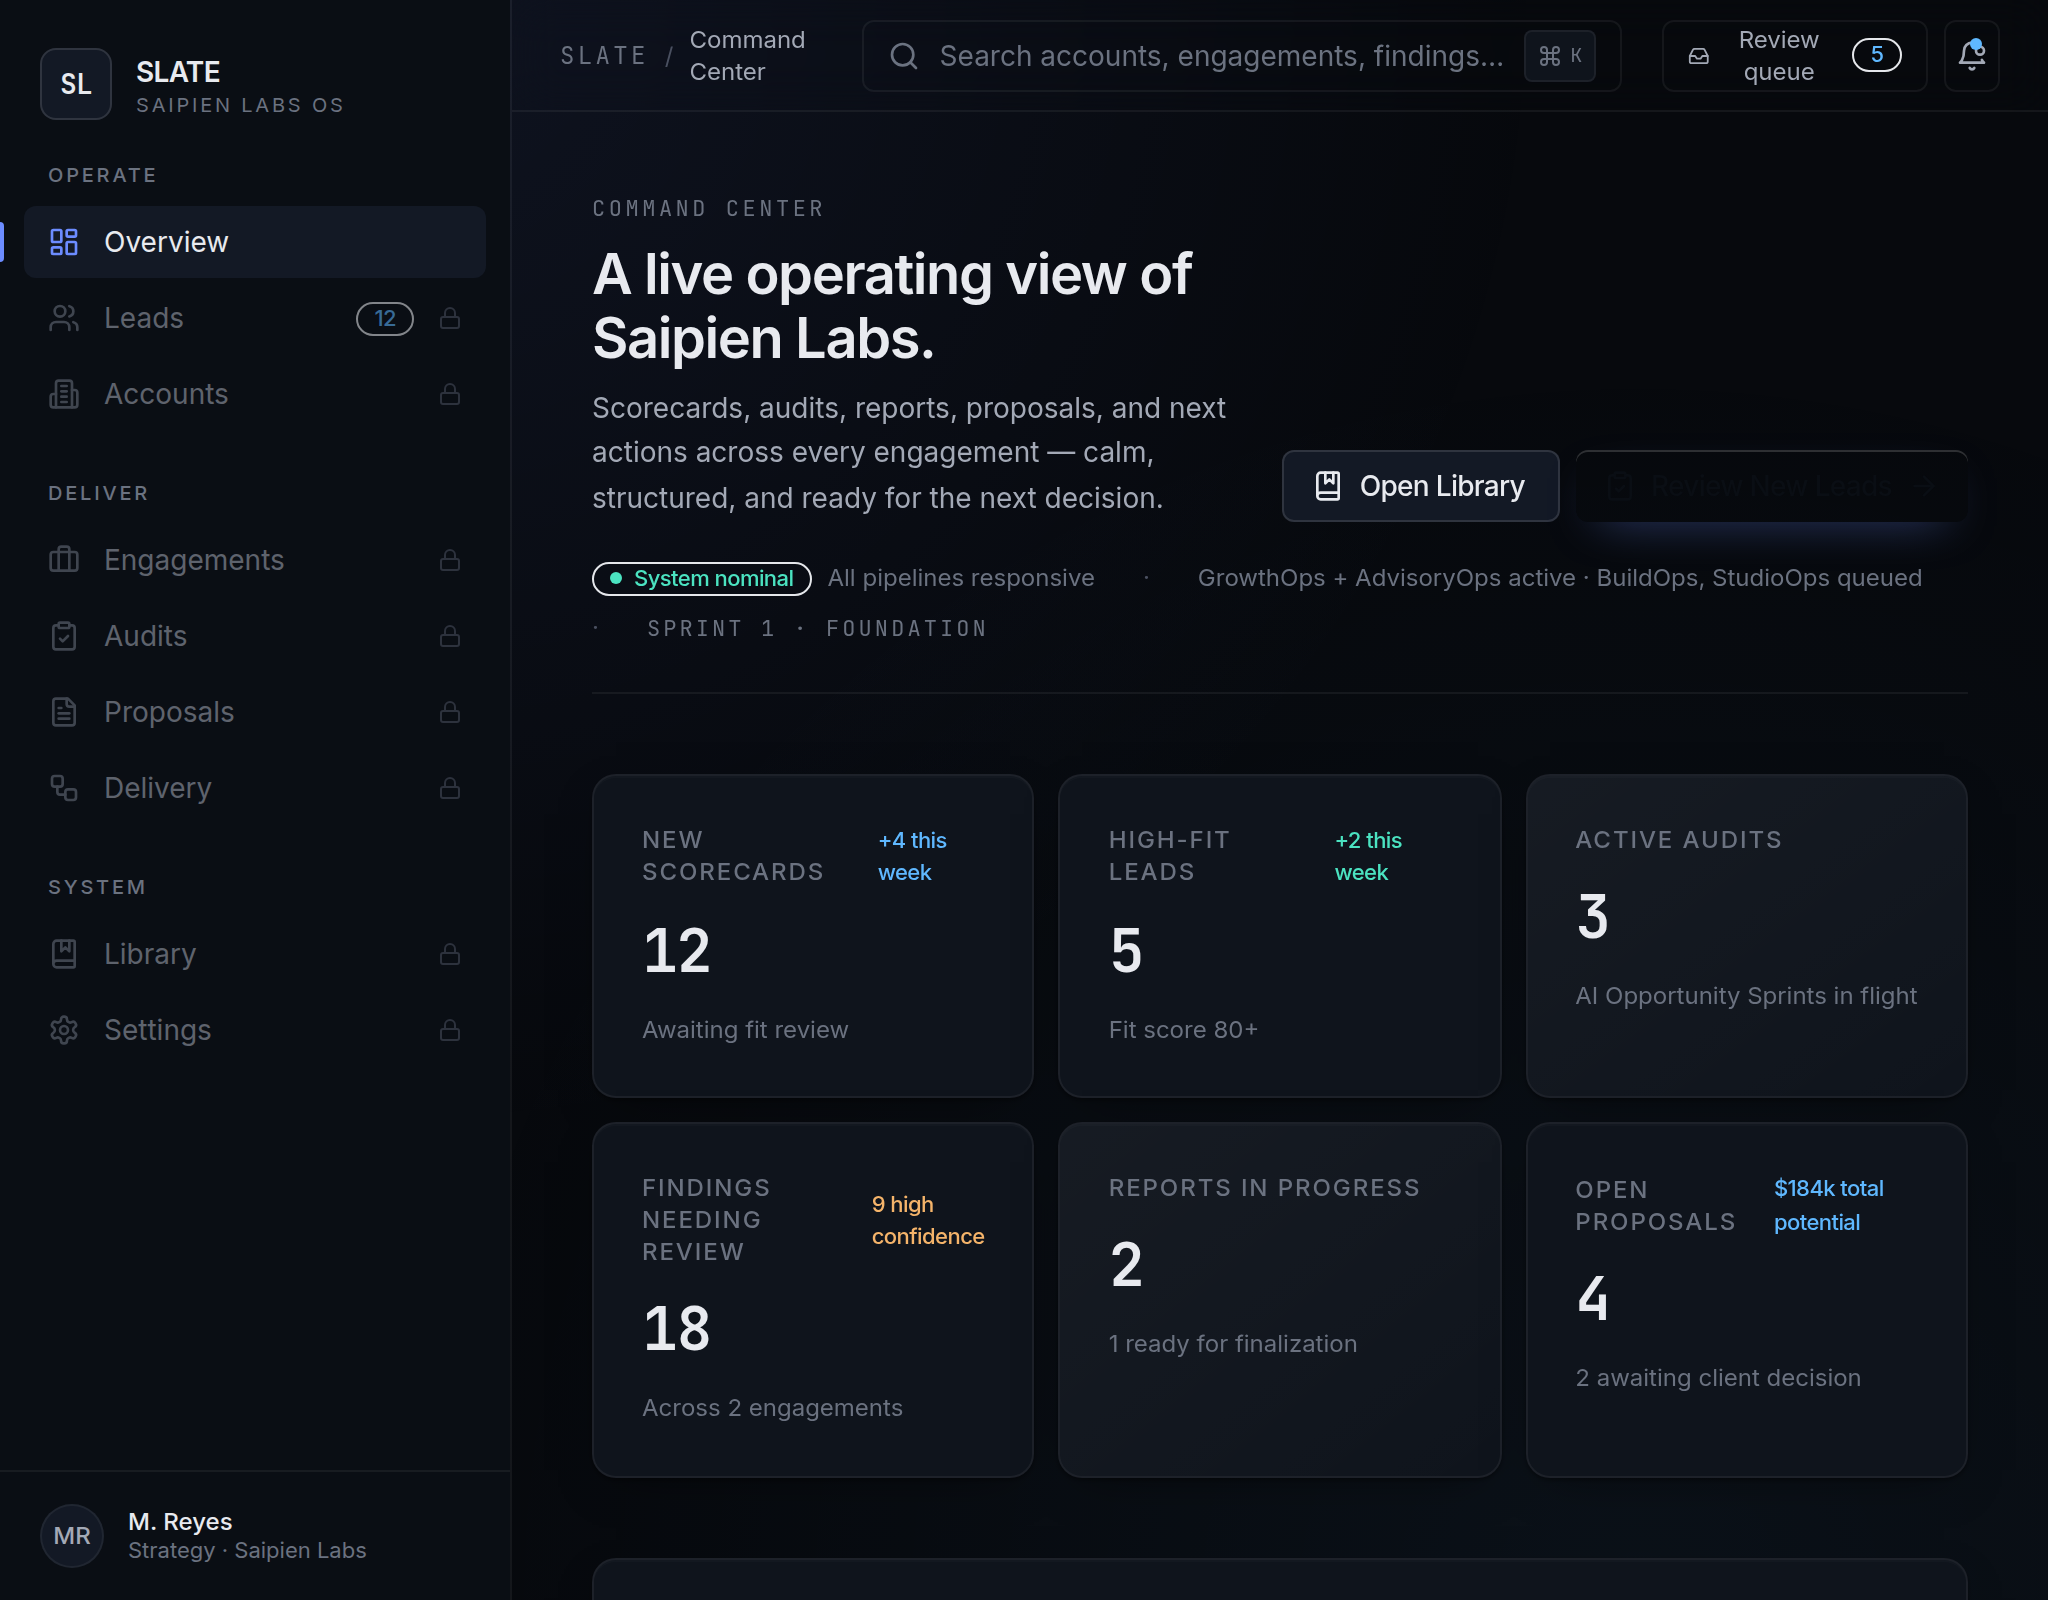
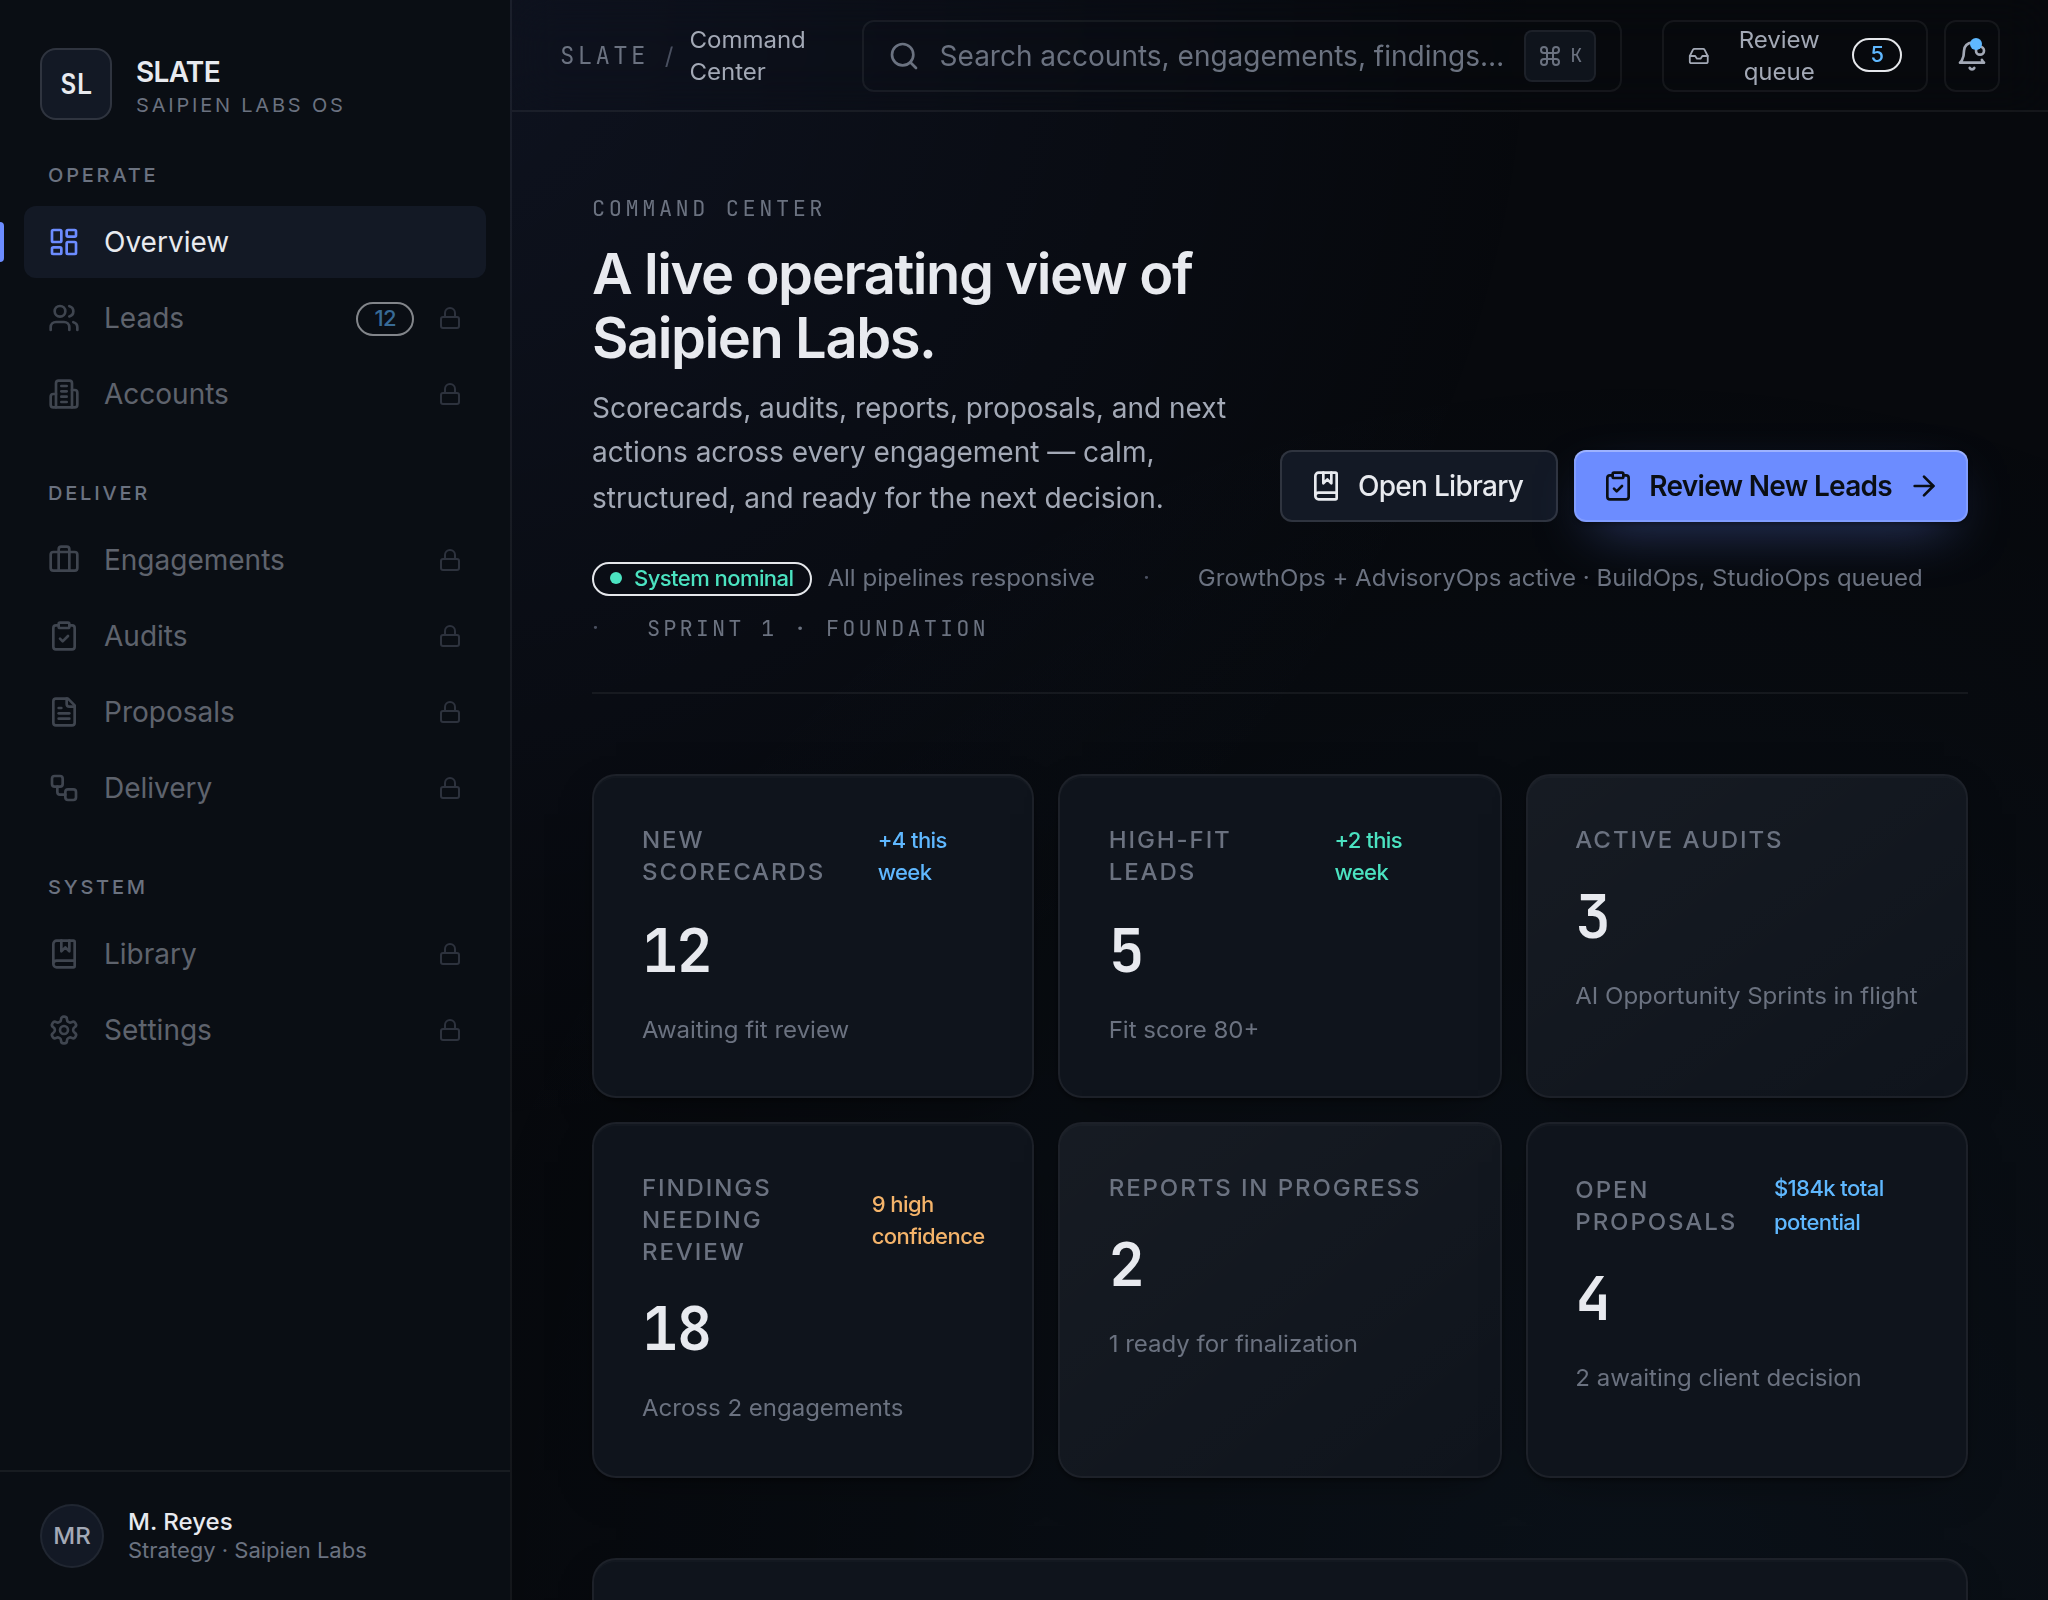
Sprint 1 polish: mobile CTA wrap, primary emphasis, grid step
- PageHeader actions stack on <sm and wrap on sm+ so the primary CTA is
  never clipped at 390px.
- Hide PageHeader meta row on <sm so the mobile fold surfaces dashboard
  data instead of secondary status text.
- Strengthen primary Button: full brand-primary background, inset ring,
  layered shadow + hover lift, semibold weight — clearly outranks the
  secondary outline button without losing restraint.
- Metric grid gains md:grid-cols-3 step (1 / 2 / 3 / 6 across breakpoints)
  so tablet-portrait widths no longer produce a tall 2-up stack.
- Author docs/11_VISUAL_UX_AUDIT_PROTOCOL.md so future sprints audit
  against a stable rubric.
- Refresh Sprint 1 screenshots to reflect the polish.

https://claude.ai/code/session_01DUiLdNU8bXEZcBi3YkYQSM

Changed region(s): [[0.625, 0.2812, 0.9688, 0.3438]]

diff --git a/components/ui/button.tsx b/components/ui/button.tsx
@@ -17,7 +17,7 @@ const base =
 
 const variants: Record<ButtonVariant, string> = {
   primary:
-    "bg-brand-primary/90 text-text-inverse hover:bg-brand-primary shadow-[0_1px_0_rgba(255,255,255,0.16)_inset,0_8px_24px_-12px_rgba(108,140,255,0.6)] hover:shadow-[0_1px_0_rgba(255,255,255,0.2)_inset,0_10px_28px_-10px_rgba(108,140,255,0.7)]",
+    "bg-brand-primary text-text-inverse font-semibold ring-1 ring-inset ring-white/15 hover:bg-[color:color-mix(in_oklab,var(--color-brand-primary)_92%,white)] active:translate-y-px shadow-[0_1px_0_rgba(255,255,255,0.22)_inset,0_1px_2px_rgba(0,0,0,0.4),0_10px_28px_-10px_rgba(108,140,255,0.55)] hover:shadow-[0_1px_0_rgba(255,255,255,0.28)_inset,0_2px_4px_rgba(0,0,0,0.45),0_14px_32px_-10px_rgba(108,140,255,0.7)]",
   secondary:
     "bg-bg-elevated text-text-primary border border-border-strong hover:bg-bg-panel hover:border-border-strong",
   outline:

diff --git a/components/layout/page-header.tsx b/components/layout/page-header.tsx
@@ -43,11 +43,13 @@ export function PageHeader({
           ) : null}
         </div>
         {actions ? (
-          <div className="flex shrink-0 items-center gap-2">{actions}</div>
+          <div className="flex w-full flex-col items-start gap-2 sm:w-auto sm:flex-row sm:flex-wrap sm:items-center sm:justify-end lg:shrink-0">
+            {actions}
+          </div>
         ) : null}
       </div>
       {meta ? (
-        <div className="flex flex-wrap items-center gap-x-6 gap-y-2 text-xs text-text-muted">
+        <div className="hidden flex-wrap items-center gap-x-6 gap-y-2 text-xs text-text-muted sm:flex">
           {meta}
         </div>
       ) : null}

diff --git a/app/app/page.tsx b/app/app/page.tsx
@@ -66,7 +66,7 @@ export default function CommandCenterPage() {
 
       <section
         aria-label="Pipeline summary"
-        className="grid grid-cols-1 gap-3 sm:grid-cols-2 lg:grid-cols-3 xl:grid-cols-6"
+        className="grid grid-cols-1 gap-3 sm:grid-cols-2 md:grid-cols-3 xl:grid-cols-6"
       >
         {dashboardMetrics.map((metric) => (
           <MetricCard

diff --git a/docs/11_VISUAL_UX_AUDIT_PROTOCOL.md b/docs/11_VISUAL_UX_AUDIT_PROTOCOL.md
@@ -1,0 +1,236 @@
+# SLATE Visual UX Audit Protocol
+
+This protocol defines how every SLATE sprint that ships UI is reviewed for visual quality, canon alignment, and responsive behavior. Run it at the end of each UI sprint before declaring the sprint complete.
+
+---
+
+## When to Run
+
+- At the end of every sprint that ships or modifies user-facing UI.
+- Before opening a pull request that materially changes layout, components, or design tokens.
+- Whenever a design token, theme value, or layout primitive is introduced or modified.
+
+Skip only when the sprint is purely backend, tooling, or docs.
+
+---
+
+## Required Reading Before Auditing
+
+The auditor must read the following before opening the app:
+
+1. `README.md`
+2. `docs/04_SLATE_UX_UI_CANON.md` — visual canon
+3. `docs/05_SLATE_IMPLEMENTATION_ARTIFACTS.md` — screen/component inventory
+4. `docs/06_SLATE_BUILD_PLAN.md` — sprint scope and acceptance criteria
+5. `docs/08_CURRENT_STATUS.md` — current implementation state
+6. `docs/09_DECISION_LOG.md` — accepted decisions and tradeoffs
+7. `docs/10_SESSION_HANDOFF.md` — design system cheat sheet and conventions
+8. The sprint's own scope/acceptance criteria
+
+The canon is the source of truth. Do not invent rules during the audit.
+
+---
+
+## Viewports
+
+Capture each in-scope screen at all three:
+
+| Viewport | Width × Height | Purpose |
+| --- | --- | --- |
+| Desktop | 1440 × 900 | Primary internal workstation experience |
+| Tablet / small desktop | 1024 × 800 | Sidebar persistence boundary, dense reading |
+| Mobile | 390 × 844 | Touch ergonomics, drawer behavior, fold readability |
+
+For each viewport capture:
+
+- Above-the-fold (viewport-only)
+- Full page (scrolled)
+- Any interactive state that materially affects layout (mobile drawer open, modal/drawer open, hover/active where relevant, empty states)
+
+Use `scripts/capture-screenshots.cjs` (Chromium via Playwright at 2× DPR, `prefers-color-scheme: dark`). Save to `docs/screenshots/sprint-<n>/` with these filenames:
+
+```
+<viewport>-<width>-fold.png
+<viewport>-<width>-full.png
+<viewport>-<width>-<state>.png   e.g. 390-mobile-drawer.png
+header-<width>.png               focused crops when needed
+```
+
+---
+
+## Evaluation Rubric
+
+Score each axis 1–5. The overall score is the simple average; round to one decimal.
+
+### 1. Premium Feel
+
+- Layered dark surfaces — never flat black
+- Restrained accent use
+- Typography hierarchy is clear (sans for UI, mono for scores/IDs/eyebrows)
+- Borders are subtle; shadows are restrained
+- No SaaS-template aesthetic, no bright gradients, no chatbot mascots
+
+### 2. Canon Alignment
+
+- Tokens, components, and copy match `docs/04_SLATE_UX_UI_CANON.md`
+- Information architecture matches `docs/03_SLATE_INFORMATION_ARCHITECTURE.md`
+- AI-generated content is clearly labeled (`Generated`, `Suggested by AI`, `Needs Human Review`)
+- Confidence and evidence are surfaced where the canon requires
+- Free scorecard never produces full roadmap, architecture, or SOW
+
+### 3. Hierarchy & Clarity
+
+- Primary action on every screen is unambiguous
+- Page header reads cleanly: eyebrow / title / supporting copy / actions
+- Cards, badges, and panels use consistent spacing and elevation
+- Status and priority are communicated by more than color alone
+
+### 4. Information Density
+
+- Useful at first glance — a calm command center, not a wall of widgets
+- Empty states guide the next action and use canon-aligned microcopy
+- Long lists have a clear hierarchy of importance
+
+### 5. Responsive Behavior
+
+- 1440: desktop premium baseline
+- 1024: persistent sidebar holds; multi-column layouts degrade gracefully
+- 390: navigation collapses to drawer; primary CTAs remain visible; nothing is clipped off-screen
+
+### 6. Accessibility Basics
+
+- `:focus-visible` rings present and on-brand
+- Icon-only controls have `aria-label`
+- Active state uses color + a non-color cue (rail, weight, icon)
+- Color contrast: body text ≥ 4.5:1, large/UI text ≥ 3:1
+- Locked or disabled affordances are programmatically marked, not just visually dim
+
+### 7. Microcopy
+
+- Specific, human, calm — no generic AI hype
+- Allowed: "Recommended next step," "Needs review," "Evidence available," "Likely opportunity," "Validate before implementation," "Ready for consultant review"
+- Forbidden: "Unlock the power of AI," "Revolutionize," "Supercharge," "AI magic," "Next-gen transformation"
+
+---
+
+## Anti-Patterns (Automatic Score Reduction)
+
+Any of the following knocks the relevant axis down by at least one point:
+
+- Flat black background or admin-template chrome
+- Light-mode default styling
+- Chatbot mascot, sparkle spam, or cliché AI imagery
+- Tables everywhere instead of focused workspaces
+- Placeholder-looking UI in shipped sprints
+- AI-generated content presented as final without a review affordance
+- Free scorecard producing full roadmap, architecture, or SOW
+- Premature BuildOps / StudioOps / ClientOps surfaces
+- New design patterns introduced outside the design system
+
+---
+
+## Required Inspection Checklist
+
+Walk every in-scope screen against this list:
+
+**App shell**
+- [ ] Sidebar renders correctly at ≥1024
+- [ ] Mobile drawer opens, traps focus appropriately, closes on backdrop click and ESC
+- [ ] TopBar shows page context; command-menu placeholder; review-queue indicator; notifications
+- [ ] Active nav state uses color + rail (or equivalent non-color cue)
+- [ ] Locked / future routes are non-interactive
+
+**Page header**
+- [ ] Eyebrow / title / description / actions / meta render cleanly at all viewports
+- [ ] Primary CTA outranks secondary visually
+- [ ] Action buttons never clip off-screen on mobile
+
+**Content panels**
+- [ ] Cards use consistent variants (base / elevated / interactive)
+- [ ] Badges use the canon tones; status uses dot + label
+- [ ] Empty states present with canon-aligned copy
+
+**AI surfaces**
+- [ ] Every AI-authored item is labeled (badge or actor)
+- [ ] Approve / edit / reject / regenerate available where the canon requires
+- [ ] Confidence and evidence surfaced
+
+**Responsive**
+- [ ] No horizontal scroll at 1440 / 1024 / 390
+- [ ] Touch targets ≥ 36 px on mobile
+- [ ] Mobile fold shows the title plus at least one piece of dashboard data
+
+**Accessibility**
+- [ ] Focus ring visible on every interactive element
+- [ ] Icon-only buttons labeled
+- [ ] Color contrast spot-checked on muted text
+
+---
+
+## Report Template
+
+Audits are returned in this exact structure (also used to grade Sprint 1):
+
+```md
+# SLATE Sprint <n> Visual UX Audit
+
+## Viewports Reviewed
+- 1440 desktop
+- 1024 tablet
+- 390 mobile
+
+## Overall Score
+<x.x / 5>
+
+## Summary
+…
+
+## What Works
+…
+
+## Issues Found
+1. [High|Med|Low] …
+
+## Canon Drift
+…
+
+## Responsive Issues
+…
+
+## Accessibility Issues
+…
+
+## Priority Fixes
+1. …
+
+## Screenshots
+Paths under `docs/screenshots/sprint-<n>/`
+
+## Recommendation
+Approve | Approve with fixes | Rework required
+```
+
+Severity guide:
+
+- **High** — blocks sprint sign-off; fix before next sprint
+- **Med** — fix in the next polish window or alongside the next sprint
+- **Low** — track in the decision log; fix opportunistically
+
+---
+
+## Workflow
+
+1. Pull the latest commit on the sprint branch.
+2. `npm install && npm run build` — no compile errors allowed at audit time.
+3. `npm run dev`, then `node scripts/capture-screenshots.cjs` (or equivalent) for the in-scope screens.
+4. Walk the inspection checklist with each screenshot.
+5. Score each axis. Write the report from the template above.
+6. Commit the screenshots to `docs/screenshots/sprint-<n>/` with the report referenced from `docs/08_CURRENT_STATUS.md`.
+7. If the recommendation is "Approve with fixes," create a polish patch before starting the next sprint.
+
+---
+
+## Ownership
+
+- Visual audit is owned by whoever closes the sprint. Self-audit is acceptable but a second-pass review is preferred for any sprint touching the design system.
+- All audits and the artifacts they reference live in-repo. They are part of the project canon.

diff --git a/docs/08_CURRENT_STATUS.md b/docs/08_CURRENT_STATUS.md
@@ -1,12 +1,12 @@
 # SLATE Current Status
 
-_Last updated: 2026-05-01 — End of Sprint 1_
+_Last updated: 2026-05-01 — Sprint 1 polish patch_
 
 ## Sprint State
 
 | Sprint | Title | Status |
 | --- | --- | --- |
-| 1 | Visual Foundation + App Shell | ✅ Complete |
+| 1 | Visual Foundation + App Shell | ✅ Complete (audit 4.4/5, polish patch applied) |
 | 2 | Public Scorecard Flow | ⏳ Not started |
 | 3 | Lead Dashboard + Qualification | ⏳ Not started |
 | 4 | Engagement Workspace | ⏳ Not started |
@@ -64,6 +64,9 @@ Public routes (`/scorecard*`, `/apply/ai-systems-review`) and stakeholder routes
 
 - `npm run lint` — clean
 - `npm run build` — clean, all routes prerender as static
+- Sprint 1 visual UX audit captured to `docs/screenshots/sprint-1/` — 4.4/5, "Approve with fixes"
+- Polish patch landed for: mobile PageHeader CTA wrap, primary CTA emphasis, `md:grid-cols-3` metric step, meta-row hidden on `<sm`
+- Visual audit protocol authored at `docs/11_VISUAL_UX_AUDIT_PROTOCOL.md`
 
 ## Known Constraints
 
